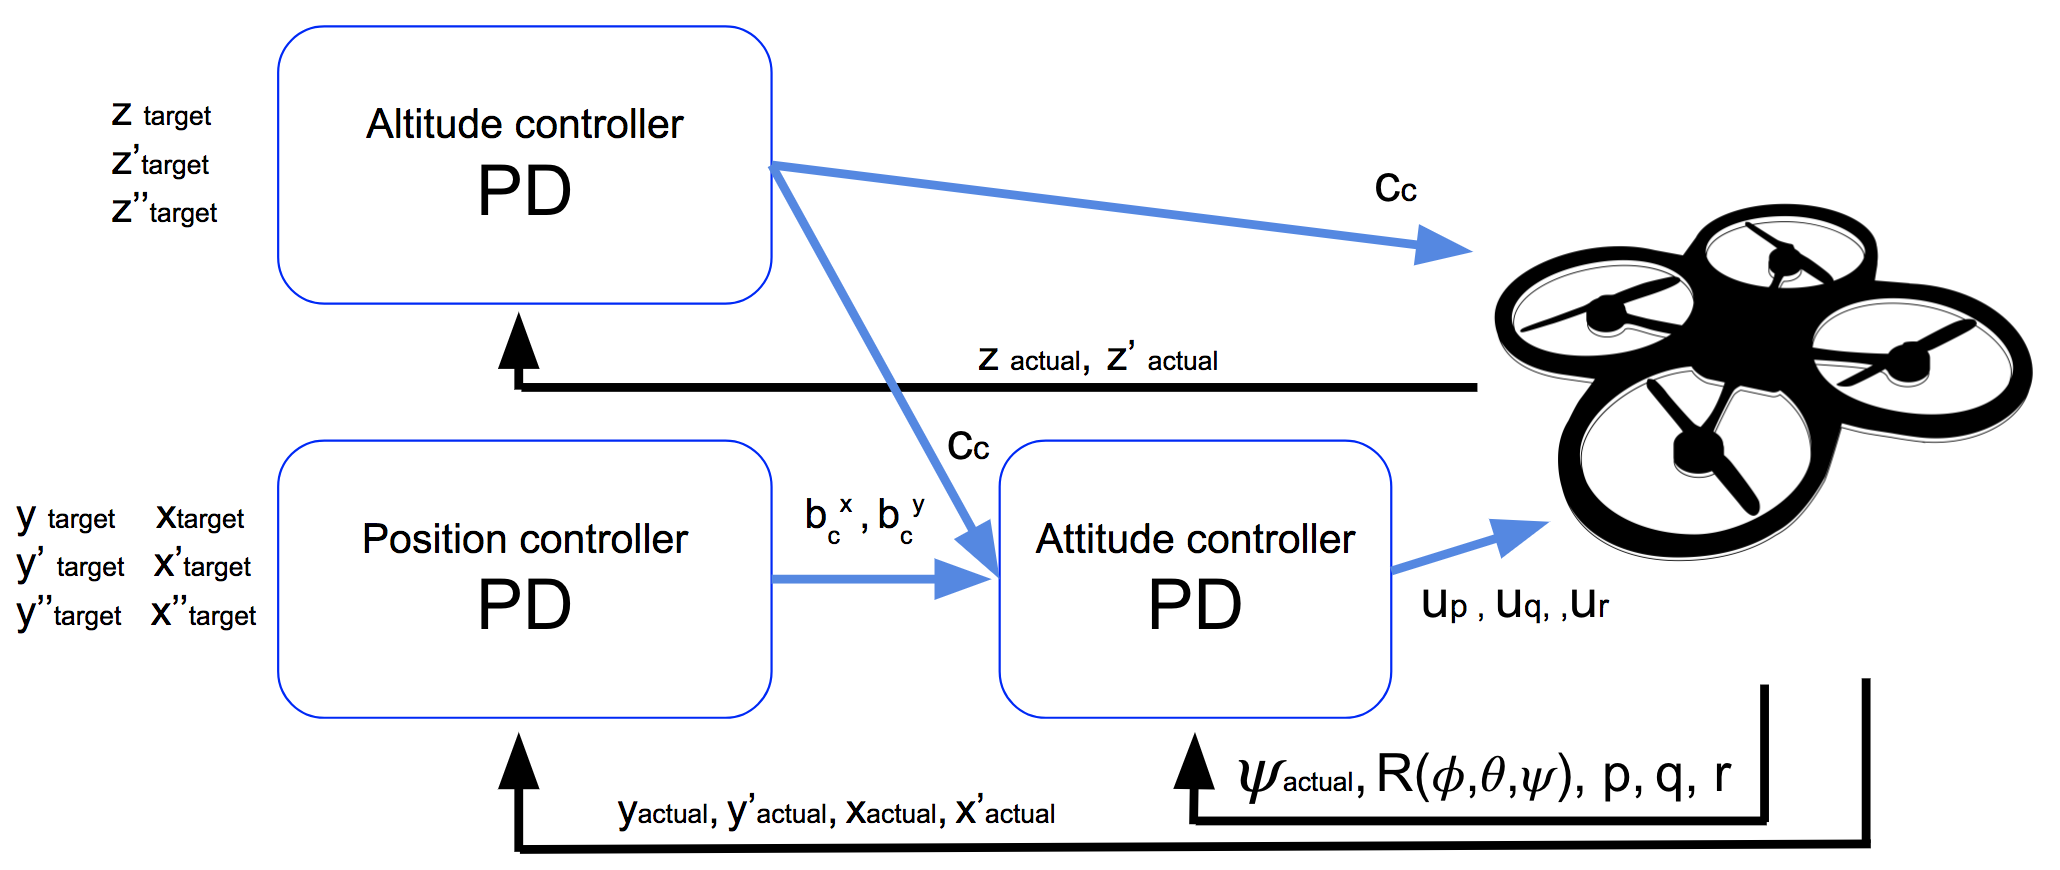
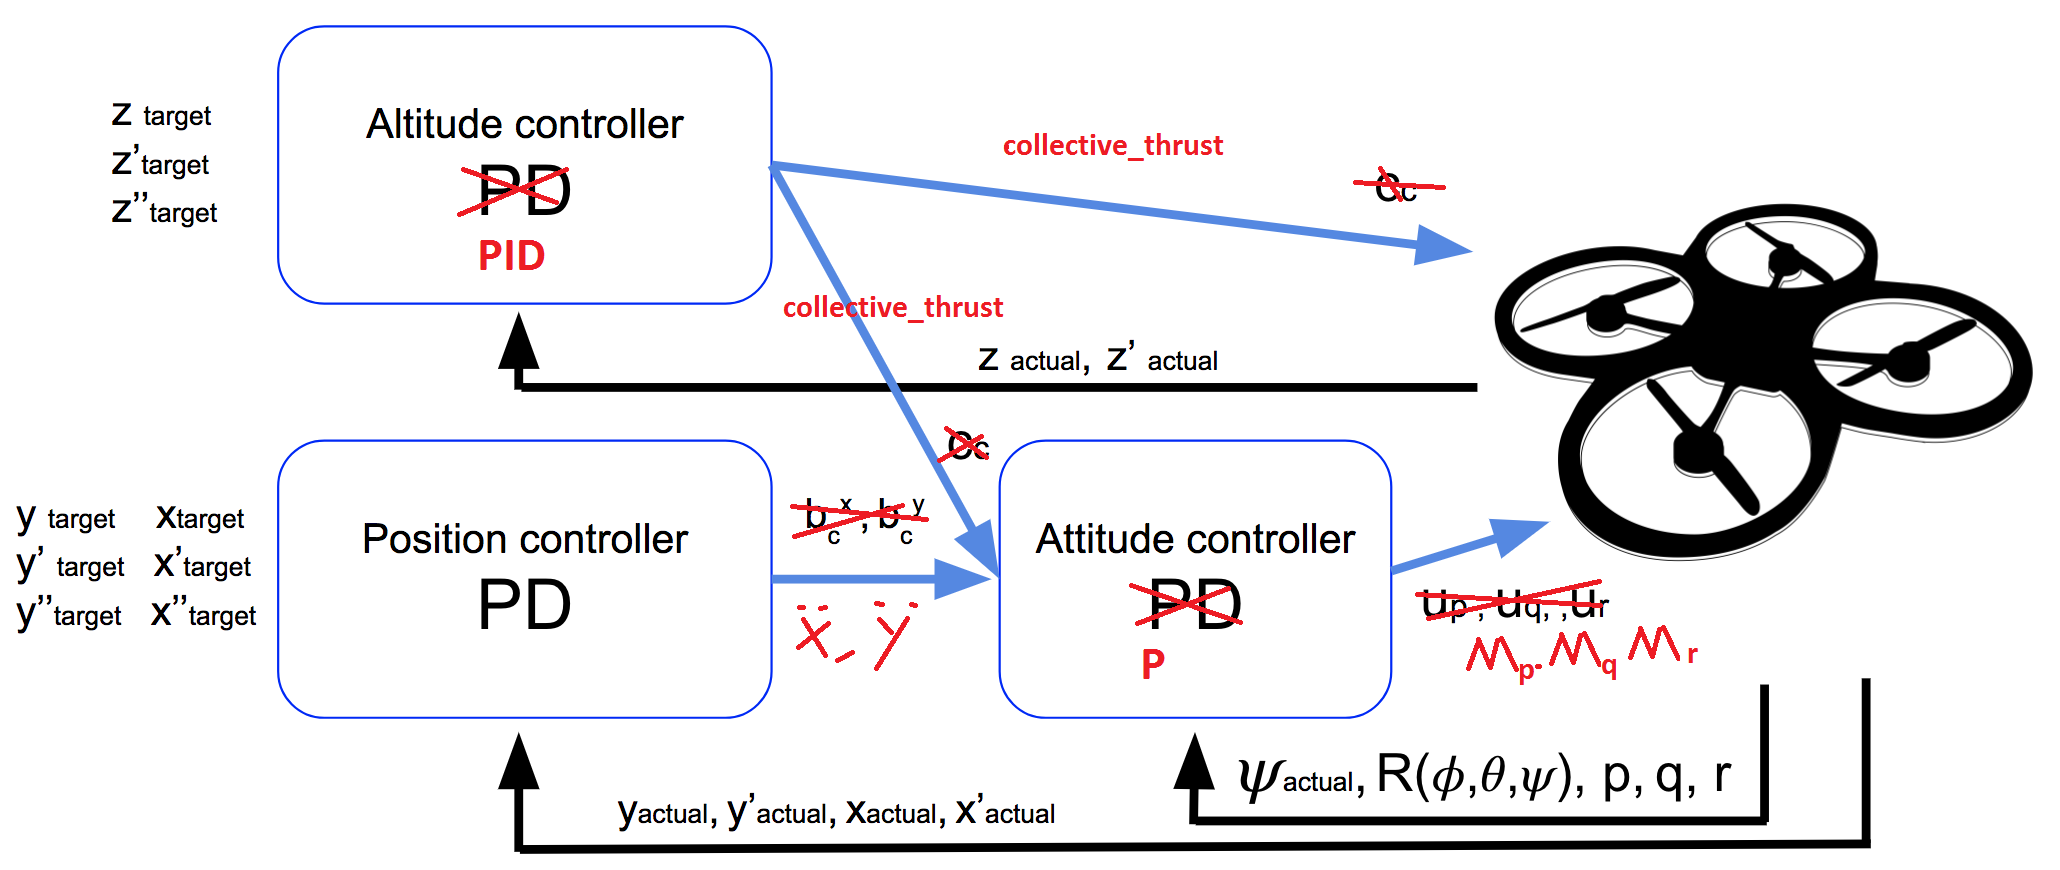
update writeup

diff --git a/writeup.md b/writeup.md
@@ -18,27 +18,28 @@
 
 ---
 ### Writeup
-The whole C++ code implementing controll function is contained in source file `QuadController.cpp`, and the tuned parameters are contained in text file `QuadControlParams.txt`. In following text the source source file and parameter file refer to above mentioned files.
+The whole C++ code implementing controll function is contained in source file `QuadController.cpp`, and the tuned parameters are contained in text file `QuadControlParams.txt`. In following text the source file and parameter file refer to above mentioned files.
 
 #### Control Architecture
-The project is based on mainly the control architecture [Figure1] from lesson with small adapation to input/output as well as to parameter conventions.
-![Overall Control Achitecture from Lesson](./animations/control2.png)
-![Attitude Control from Lesson](./animations/control1.png)
-*Figure1: Control Architecutre from Lesson*
+The control architecture is mainly based on architecture from lesson with small adaptation to input/output as well as to parameter conventions.
 
-Here is the achitecture [Figure2] used in this project. The changes are explained in details by affected rubric points.
+Here is the achitecture used in this project. The changes are explained in details by affected rubric points.
 
 ![Overall Control Achitecture for Project](./animations/control2p.png)
+*Figure 1: Overall Control Architecture*
+
 ![Attitude Control for Project](./animations/control1p.png)
-*Figure2: Control Architecutre for Project*
+*Figure 2: Attitude Control*
 
 
 #### 1. Implemented body rate control in C++. The controller should be a proportional controller on body rates to commanded moments. The controller should take into account the moments of inertia of the drone when calculating the commanded moments.
 
-Body rate control is a propotional controller to instant detected error of reference value to measured value. See code `line 95 - 115` in function:
+Body rate control is a propotional controller to instant detected error of reference value to measured value. See source code `line 95 - 115` in function:
 ```
 V3F QuadControl::BodyRateControl(V3F pqrCmd, V3F pqr)
+
 ```
+
 
 $Error_{\text{pqr}} or $\dot{p}\dot{p}\dot{r} is a angle acceleration in body frame. The output of  is required moment command for roll, pitch and yaw in body frame. So the  $\Error_{\text{pqr}} is multiplied by moment of inertia $I_{\text{xyz}}$. $I_{\text{xyz}}$ is read from parameter file `Ixx, Iyy,Izz`. The final output is $moment_cmd_{\text{pqr}}$ in body frame:
 
@@ -48,7 +49,7 @@ $$moment_cmd_{\text{pqr}} = Error_{\text{pqr}} |times I_{\text{xyz}}$$
 
 #### 2. Implement roll pitch control in C++. The controller should use the acceleration and thrust commands, in addition to the vehicle attitude to output a body rate command. The controller should account for the non-linear transformation from local accelerations to body rates. Note that the drone's mass should be accounted for when calculating the target angles.
 
-Roll pitch control is a propotional controller to instant detected error of reference value to measured value. See code `line 118 - 158` in function:
+Roll pitch controller is a propotional controller to instant detected error of reference value to measured value. See source code `line 118 - 158` in function:
 ```
 V3F QuadControl::RollPitchControl(V3F accelCmd, Quaternion<float> attitude, float collThrustCmd)
 ```
@@ -72,11 +73,11 @@ $\dot{b}^y_c  = k_p(b^y_c - b^y_a)$
 \end{align}
 $$
 
-Besides of applying the equation, one hint must be taken care, the $c is converted from collective thrust divided by mass, since body frame has also $z direction downwards, the thrust is however is measured upwards, $c value must be negated. 
+Besides of applying the equation, one hint must be taken care of, the $c$ is converted from collective thrust divided by `mass`, since body frame has $z$ direction downwards, the thrust is however is measured upwards, $c$ value must be negated. 
 
 #### 3. Implement altitude controller in C++. The controller should use both the down position and the down velocity to command thrust. Ensure that the output value is indeed thrust (the drone's mass needs to be accounted for) and that the thrust includes the non-linear effects from non-zero roll/pitch angles. Additionally, the C++ altitude controller should contain an integrator to handle the weight non-idealities presented in scenario 4.
 
-Altitude controler is a *PID* controller. See code `line 160 - 192` in function:
+Altitude controler is a *PID* controller. See source code `line 160 - 192` in function:
 ```
 float QuadControl::AltitudeControl(float posZCmd, float velZCmd, float posZ, float velZ, Quaternion<float> attitude, float accelZCmd, float dt)
 ```
@@ -134,7 +135,7 @@ VehicleCommand QuadControl::GenerateMotorCommands(float collThrustCmd, V3F momen
 
 This depends on the layerout of rotors/frames and rotation direction. The starter code provides some hint on layout of motors as [Figure 3].
 
-![Figure 3, drone frame layout]()
+![Figure 3, drone frame layout](./animations/Drone1p.png)
 
 but the rotation of motors are not given. So there are 2 possibility and the corresponding matrix for distributing thrust is as following, which only affects the moment for yaw rate.
 
@@ -182,7 +183,7 @@ $\begin{pmatrix} 1 & 1 & 1 & -1 \\ 1 & -1 & 1 & 1 \\ 1 & 1 & -1 & 1\\ 1 & 1 & -1
 #### 7. Your C++ controller is successfully able to fly the provided test trajectory and visually passes inspection of the scenarios leading up to the test trajectory. Ensure that in each scenario the drone looks stable and performs the required task. Specifically check that the student's controller is able to handle the non-linearities of scenario 4 (all three drones in the scenario should be able to perform the required task with the same control gains used).
 
 The controller with applied parameter passes all the scenarios. Here is the figure of scenario 5.
-![Follow trajectory]()
+![Follow trajectory](./animations/my_scenario5.gif)
 
 
 #### 8. Provide a Writeup / README that includes all the rubric points and how you addressed each one.  You can submit your writeup as markdown or pdf.  
